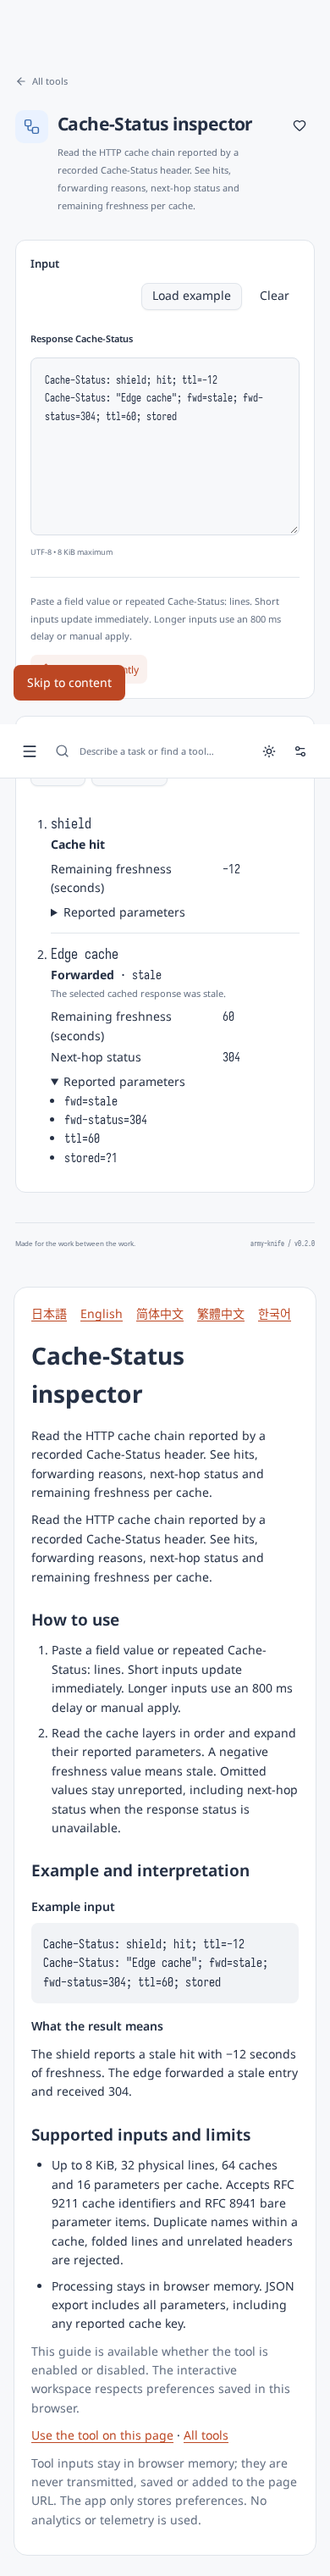
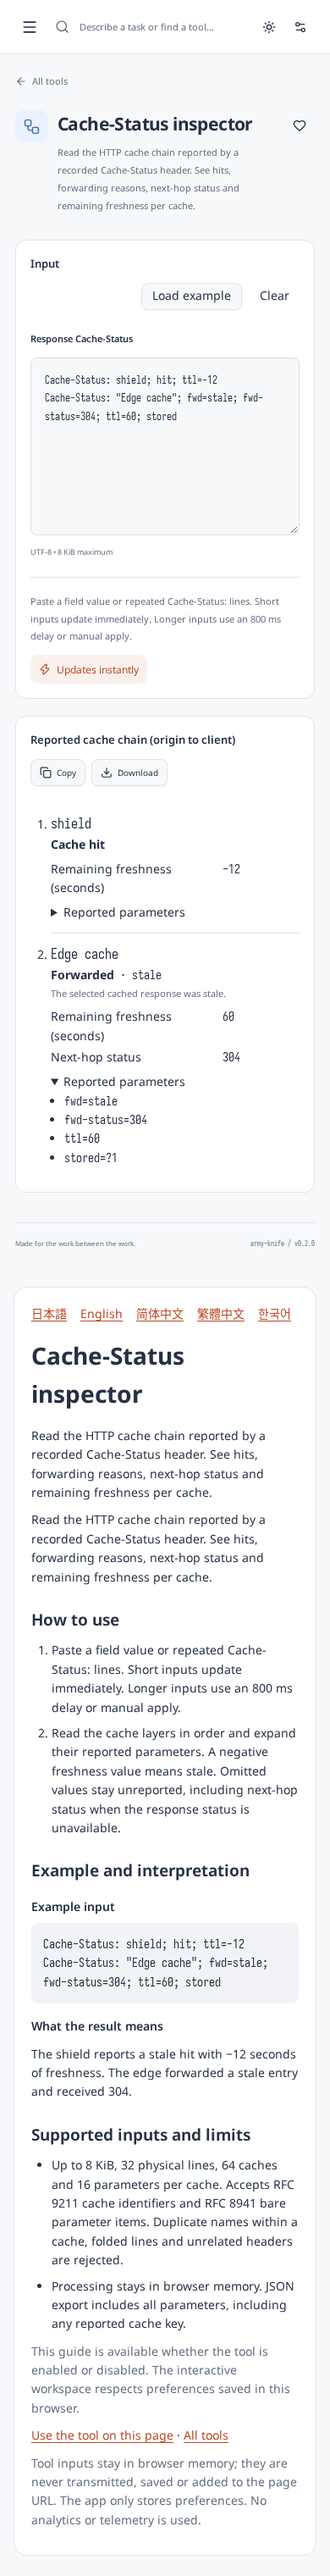
test: make Cache-Status paste fixture cross-browser

Changed region(s): [[0.0308, 0.2499, 0.5231, 0.3124]]

diff --git a/tests/e2e/cache-status.spec.ts b/tests/e2e/cache-status.spec.ts
@@ -63,6 +63,10 @@ for (const locale of ["en", "ja", "zh-CN", "zh-TW", "ko"] as const) {
         testInfo.project.name.startsWith("chromium-") &&
         ((locale === "en" && theme === "light") || (locale === "ja" && theme === "dark"));
       if (capture) {
+        await page.evaluate(() => {
+          if (document.activeElement instanceof HTMLElement) document.activeElement.blur();
+          window.scrollTo(0, 0);
+        });
         await page.screenshot({ fullPage: true, path: `docs/screenshots/cache-status-${locale}-${theme}-${testInfo.project.name.slice(9)}.png` });
       }
     }
@@ -117,13 +121,16 @@ test("uses cancellable deferred application and rejects oversized raw CRLF paste
   const result = page.getByTestId("cache-status-result");
   await page.getByTestId("cache-status-sample").click();
   await expect(result).toBeVisible();
-  await input.evaluate((element) => {
+  const prevented = await input.evaluate((element) => {
     const editor = element as HTMLTextAreaElement;
     editor.select();
-    const data = new DataTransfer();
-    data.setData("text/plain", "Cache-Status: edge\r\nCache-Status: next; detail=\"" + "a".repeat(8192) + "\"");
-    editor.dispatchEvent(new ClipboardEvent("paste", { clipboardData: data, bubbles: true, cancelable: true }));
+    const text = 'Cache-Status: edge; detail="' + "a".repeat(8144) + '"\r\nCache-Status: next';
+    const paste = new Event("paste", { bubbles: true, cancelable: true });
+    Object.defineProperty(paste, "clipboardData", { value: { getData: () => text } });
+    editor.dispatchEvent(paste);
+    return paste.defaultPrevented;
   });
+  expect(prevented).toBe(true);
   await expect(result).toHaveCount(0);
   await expect(page.getByText(cacheStatusMessages.en["cacheStatus.rejected"])).toBeVisible();
   await input.fill('edge; detail="' + "a".repeat(2048) + '"');
